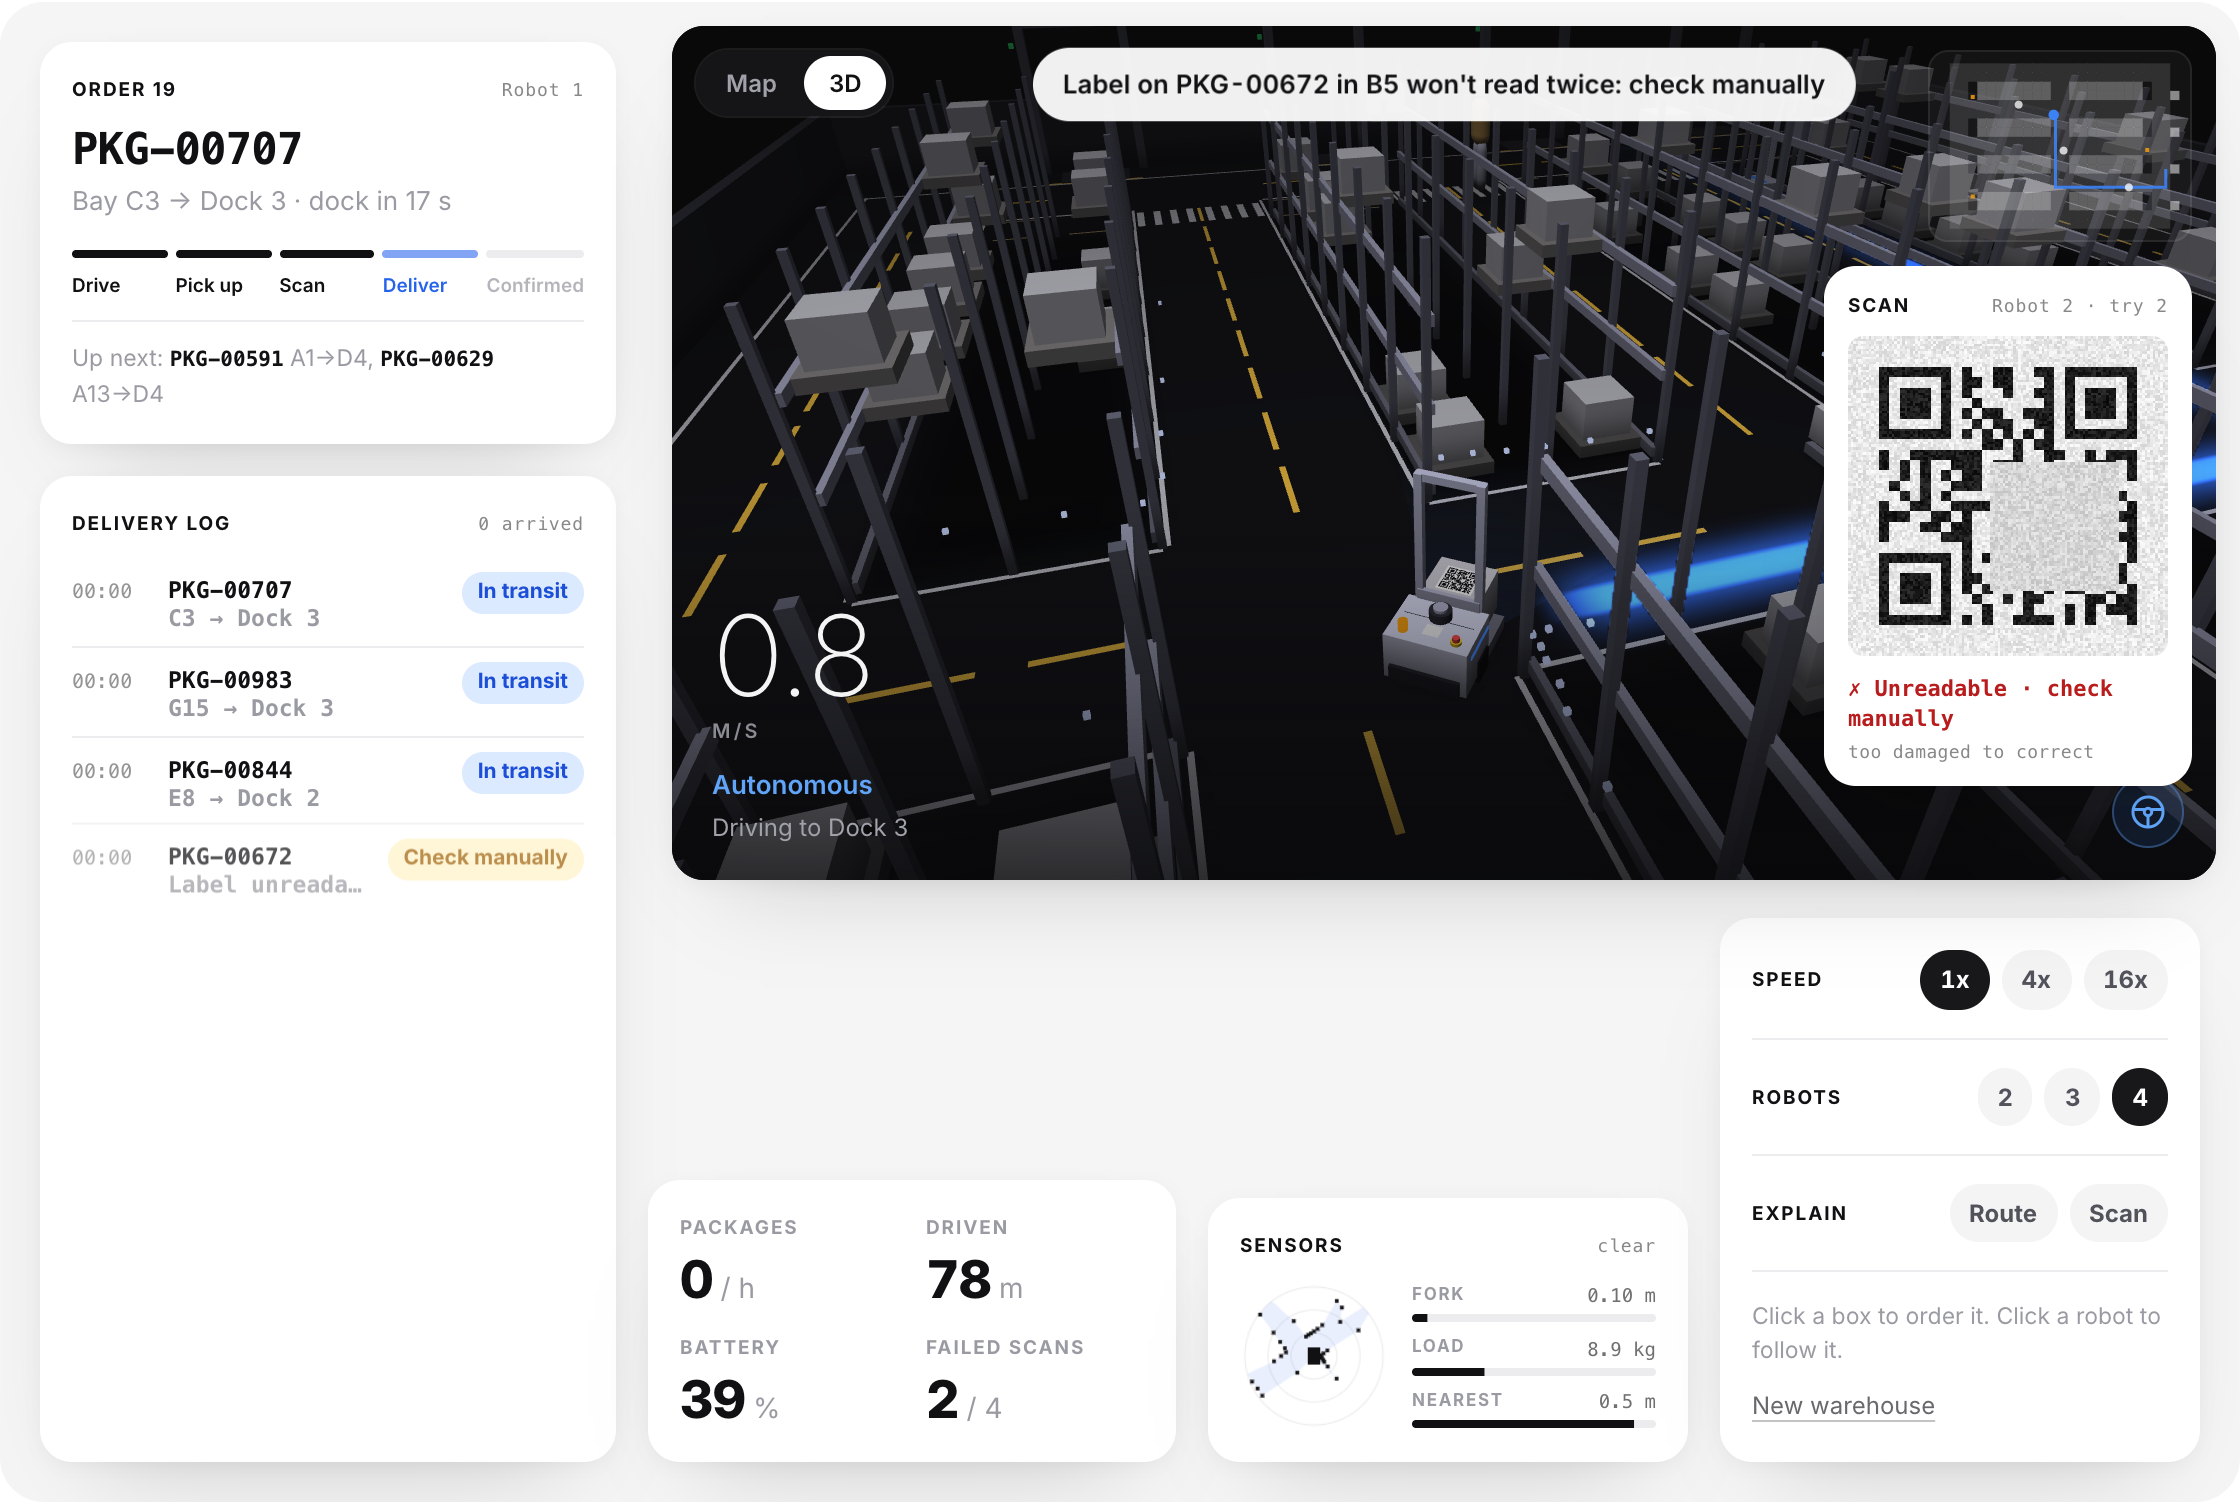
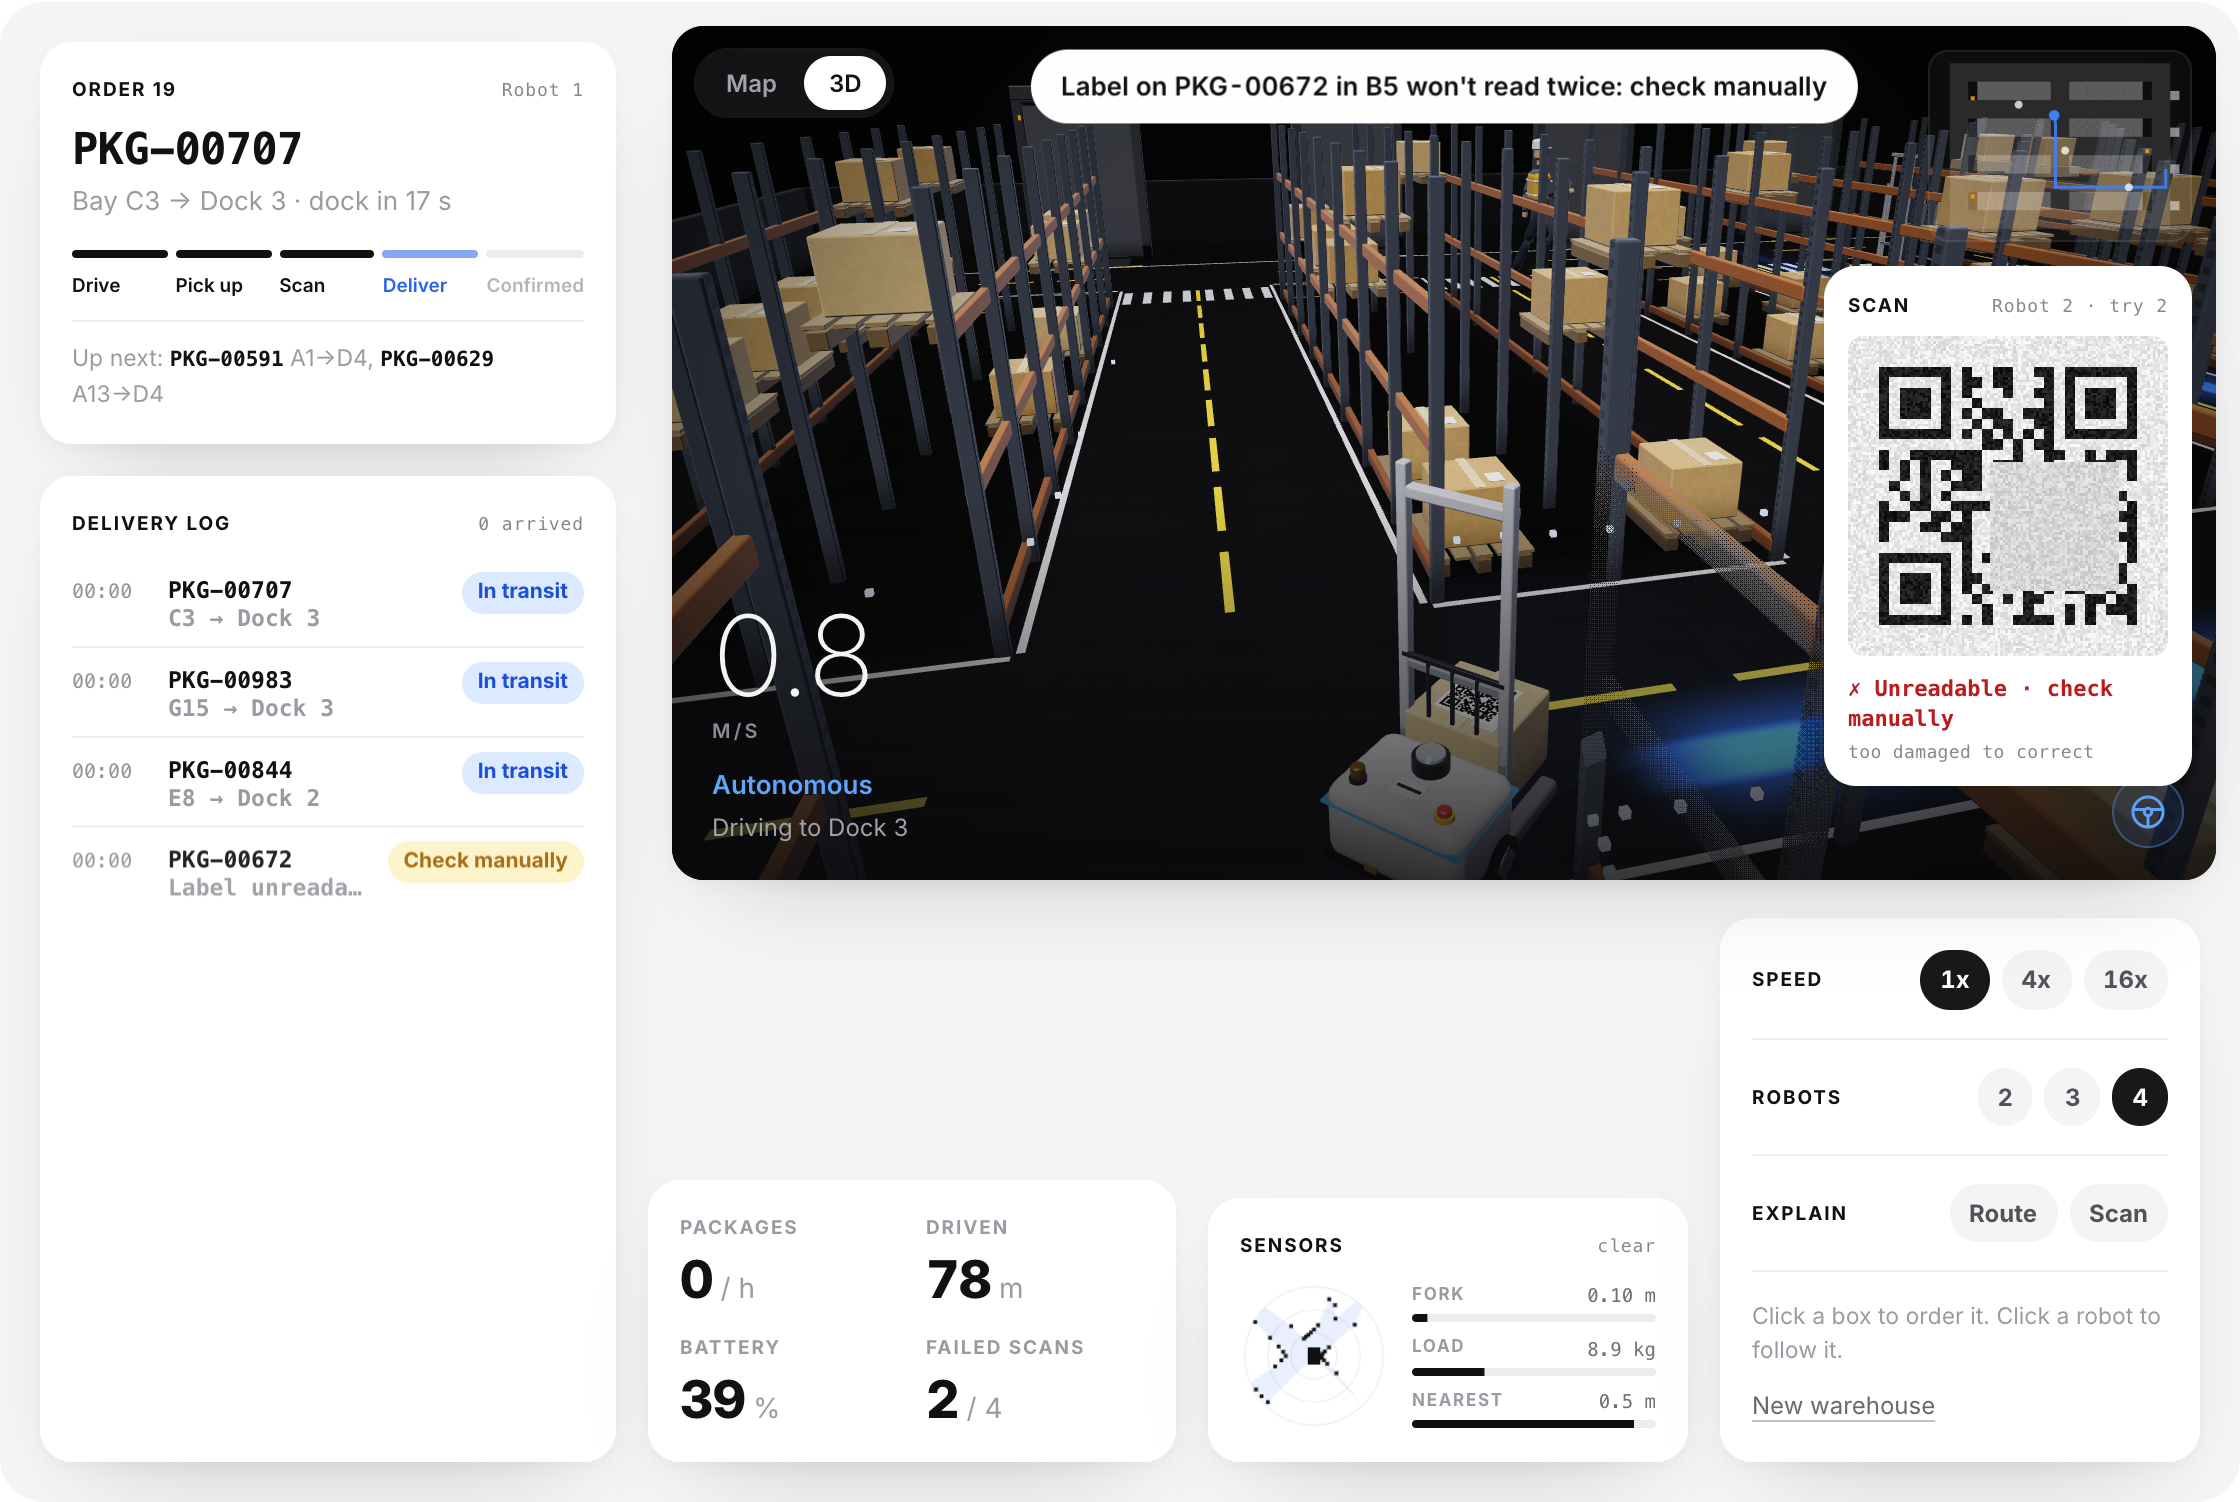
README and pictures for the detailed 3D view

diff --git a/README.md b/README.md
@@ -3,7 +3,7 @@
 A fleet of forklift robots works a small warehouse in the browser: they plan the quickest routes around each other, lift packages out of their bays, decode each QR label from pixels and drop it at the right dock, while a delivery log checks every step. Plain JavaScript.
 
 <p align="center">
-  <a href="https://stxqq.github.io/forklift/"><img src=".github/assets/hero.gif" width="880" alt="The 3D view: from behind and above, a robot lifts a box out of bay C5, the scan card decodes its label as PKG-00657, Bay C5, Dock 1, and the robot drives off along a glowing blue route between the racks, its speed and status in the corner"></a>
+  <a href="https://stxqq.github.io/forklift/"><img src=".github/assets/hero.gif" width="880" alt="The 3D view: from behind and above, a robot lifts a box out of bay C5 between steel racks of cardboard boxes, the scan card decodes its label as PKG-00657, Bay C5, Dock 1, and the robot drives off along a glowing blue route, its speed and status in the corner"></a>
 </p>
 
 <p align="center">
@@ -87,7 +87,8 @@ from seed 153, and the picture in it is the exact image the decoder read.
   someone for 2.5 s, a robot replans.
 - **Robot.** Differential drive, 0.70 by 0.52 m, 1.5 m/s. It speeds up with
   limited jerk, brakes in time for the end of what it holds, takes corners
-  as quarter circles at 0.8 m/s, and turns on the spot only to start a
+  at 0.8 m/s on a curve whose turn rate builds up and dies away smoothly
+  (no jolt where the straight meets the bend), and turns on the spot only to start a
   route or to face a bay or dock. The fork lifts 1.6 m and reaches 0.62 m,
   both eased, and goes up to the shelf while the robot is still driving in.
 - **Collisions.** The robot's real outline, chassis plus fork plus load, is
@@ -146,33 +147,61 @@ the bytes.
 The **Map** is the floor plan above: every robot, its route and arrival
 time, the boxes on the shelves, the people. The **3D** view is what the
 robot in focus sees, in the style of a car's self-driving display: a dark
-floor with the lane lines drawn in light grey and yellow, racks, pallets
-and boxes at their real heights, people as soft capsules with a hint of
-their vests, and the route as a glowing blue ribbon that dims and pulses
-while the robot waits for a cell. The safety field is a fan on the floor
-that turns amber or red when someone is in it, the lidar returns are faint
-dots, and the box it's going for has a blue outline. The corners show the
-speed, a status line ("Driving to Bay C6", "Waiting · Robot 2 has the cells
-ahead", "Lifting", "Scanning"), a mode icon and a mini map. The choice is
+concrete floor with the lane lines in light grey and yellow, steel racks
+with punched uprights and warm beams, wooden pallets, cardboard boxes with
+tape and labels, dock doors that roll up when a loaded robot arrives, and
+the route as a glowing blue ribbon that dims and pulses while the robot
+waits for a cell. The safety field is a fan on the floor that turns amber
+or red when someone is in it, the lidar returns are faint dots, and the box
+it's going for has a blue outline and glow. The corners show the speed, a
+status line ("Driving to Bay C6", "Waiting · Robot 2 has the cells ahead",
+"Lifting", "Scanning"), a mode icon and a mini map. The choice is
 remembered in your browser.
 
 <p align="center">
-  <img src=".github/assets/view3d.png" width="880" alt="The 3D view with four robots: the robot in focus carrying a box toward dock 3 between the racks, other robots and boxes as matte grey shapes, the speed 0.8 m/s with Autonomous and Driving to Dock 3 under it, a mini map top right and the scan card of another robot's unreadable label">
+  <img src=".github/assets/view3d.png" width="880" alt="The 3D view with four robots: the robot in focus carrying a box toward dock 3 between steel racks of cardboard boxes on pallets, the speed 0.8 m/s with Autonomous and Driving to Dock 3 under it, a mini map top right and the scan card of another robot's unreadable label">
 </p>
 
-It's a small WebGL2 renderer written for this, no library: instanced boxes,
-cylinders and capsules lit by a sun and a sky light, soft contact shadows
-under everything, darkening near the floor as a cheap stand-in for ambient
-occlusion, fog to black, and the ribbon drawn once additively and once more
-into a half-size buffer that is blurred and added on top, masked by
-whatever stands in front of it. The canvas's multisampling smooths the
-edges. The chase camera eases toward a point behind and above the robot at
-a rate that doesn't depend on the frame rate, follows it round corners, and
+<p align="center">
+  <img src=".github/assets/view3d-robot.png" width="436" alt="Close-up of a robot from the side: rounded chassis with its light strip, mast with the inner rails, carriage and backrest, a box on the tines with its real QR label, a drive wheel with hub and spokes, and a caster on the outrigger">&nbsp;<img src=".github/assets/view3d-person.png" width="436" alt="Close-up from behind a robot of a person on the walkway: white hard hat, hi-vis vest with reflective bands, holding a tablet, with the robot's safety fan glowing amber on the floor">
+</p>
+
+The robot is a hierarchy of parts, so things move the way they would: the
+drive wheels roll with the distance driven (and turn against each other
+when it spins on the spot), the casters swivel to where they're being
+pushed, the inner mast rises once the fork goes above a meter, the box
+rides on the tines, the lidar turns, the beacon flashes amber while it
+moves, the light strip goes blue, amber, green after a good read and red
+when someone stops it, and it dips its nose a touch when it brakes. People
+walk with a stride matched to their speed, swing their arms against their
+legs, turn smoothly into a new direction, shift their weight while they
+wait at a crossing and look around; some carry a tablet. While a label is
+read, a blue laser fan sweeps across it.
+
+It's a small WebGL2 renderer written for this, no library: instanced
+rounded boxes with true bevels, cylinders and capsules, each with a full
+rotation; a key light, a fill light, a cool rim light and the sky, in
+linear light with a filmic tone curve and sRGB output; soft contact shadows
+offset away from the light and darkening near the floor as a cheap stand-in
+for ambient occlusion; faint concrete noise, coloured glows on the floor
+from the robots' lights, fog to black and a slight vignette. The ribbon is
+drawn once additively and once more into a half-size buffer that is blurred
+and added on top, masked by whatever stands in front of it. Anything
+between the camera and the robot it follows is thinned to a fifth with an
+ordered dither, so the robot and its route are always in view. Far away,
+pallets, boxes, robots and people drop to simpler shapes. The canvas's
+multisampling smooths the edges.
+
+The chase camera sits behind, above and a little ahead of the robot, so it
+is big in the lower middle and the route runs up the screen. Position and
+bearing follow critically damped springs solved exactly per frame, so the
+motion is the same at any frame rate, never overshoots and never rolls. It
 holds its bearing while the robot turns on the spot to a bay, so it never
-swings into the racks. Both views draw the same interpolated sim state, and
-a test checks that the 3D scene can't change what the robots do. With
-reduced motion the camera keeps one bearing; without WebGL2 the page says
-so and stays on the map.
+swings into the racks, and it always sits above them. After six idle
+seconds it drifts slowly round the robot. Both views draw the same
+interpolated sim state, and a test checks that the 3D scene can't change
+what the robots do. With reduced motion the camera keeps one bearing and
+nothing spins; without WebGL2 the page says so and stays on the map.
 
 ## Label lab
 
@@ -245,8 +274,8 @@ served. The page shows the same numbers from `scripts/results.json`.
 | Packages per hour, cooperative routing | 58 | 233 |
 | Packages per hour, simple routing | 57 | 226 |
 | Mean trip (order taken to box at the dock), cooperative | 51.0 s | 50.7 s |
-| Mean trip, simple | 52.4 s | 54.5 s |
-| Reported missing / wrong package / check by hand | 9 / 8 / 14 | 25 / 19 / 47 |
+| Mean trip, simple | 52.4 s | 54.4 s |
+| Reported missing / wrong package / check by hand | 9 / 8 / 14 | 27 / 19 / 48 |
 | Closest two robots came | – | 1.00 m |
 
 Before this version the warehouse had one-way lanes round a ring and
@@ -262,8 +291,8 @@ dispatch picking the nearest order. The fleet is busy driving, not waiting:
 over three 20-minute runs four robots spend about 3 % of their time held
 up by each other, counting planned waits.
 
-94 % of labels read on the first try; Reed–Solomon fixed 1,091 codewords
-in 1,351 scans.
+94 % of labels read on the first try; Reed–Solomon fixed 1,113 codewords
+in 1,355 scans.
 
 <p align="center">
   <img src=".github/assets/dispatch.png" width="880" alt="Dispatch with four robots and the scan explainer: the delivery log with arrived and in-transit rows, the robots' routes in blue with an arrival time, and a scan card showing camera, threshold, finder patterns, sampled grid and the decoded bytes of PKG-00954 with four codewords fixed">
@@ -287,17 +316,18 @@ in 1,351 scans.
   stuck robot replans, but it can cost a few seconds. Overtaking a robot
   that has stopped to pick isn't allowed; the one behind waits or reroutes.
 - **The grid is coarse.** One-meter lanes, one robot per cell, corners as
-  arcs through one cell. People walk the strips and cross at crossings and
+  curves through one cell. People walk the strips and cross at crossings and
   never step into a road anywhere else.
 - **Driving by hand skips the rules.** In Drive the robot ignores lanes and
   reservations; walls, racks, people and the safety field still apply, and
   the fork docks itself straight before it reaches into a bay.
 - **Physics is kinematic.** No wheel slip, no load swinging, and the battery
   is a counter.
-- **The 3D view is for watching.** Boxes are ordered on the map; the 3D
-  scene uses blob shadows and height darkening rather than real shadow maps
-  or screen-space ambient occlusion, and the glow mask is half resolution,
-  so a thin halo can show round a mast.
+- **The 3D view is for watching.** Boxes are ordered on the map. The scene
+  uses soft blob shadows and height darkening rather than shadow maps or
+  screen-space ambient occlusion, faded parts are dithered rather than
+  sorted and blended, and the glow mask is half resolution, so a thin halo
+  can show round a mast. People's legs don't plant on the floor exactly.
 
 ## Project layout
 
